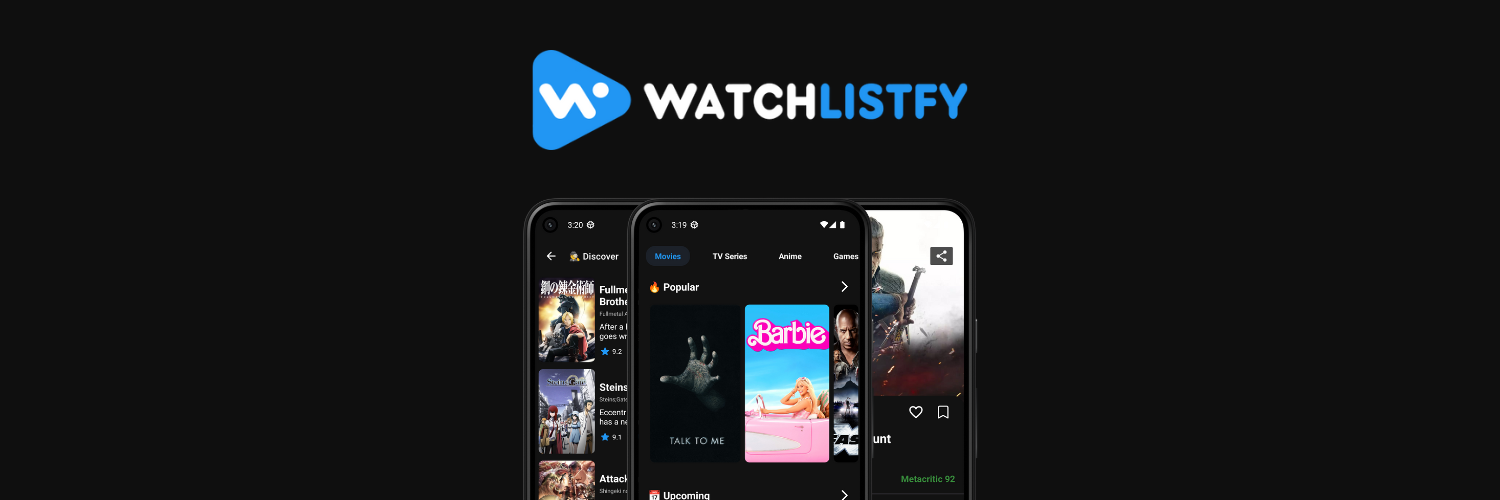
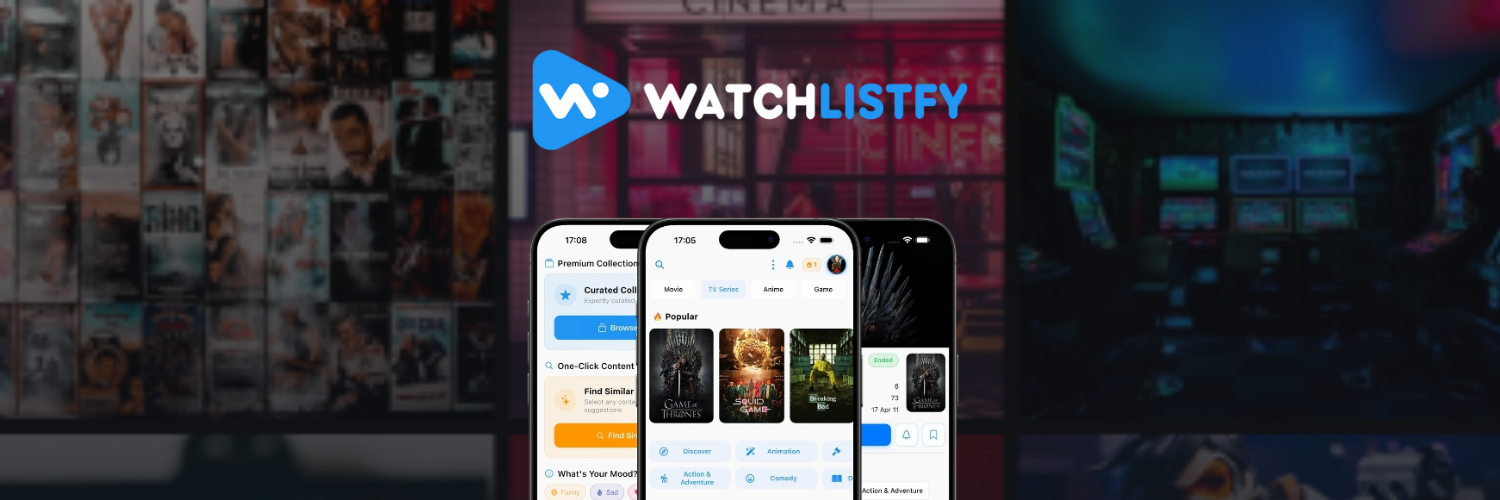
UI fixes. New images added.

diff --git a/src/components/MobileAppBanner.jsx b/src/components/MobileAppBanner.jsx
@@ -73,39 +73,44 @@ export default function MobileAppBanner() {
     }
 
     return (
-        <div className="fixed top-0 left-0 right-0 z-60 bg-gradient-to-r from-[#2196F3] to-[#1976D2] text-white shadow-lg mobile-banner-visible">
-            <div className="flex items-center justify-between px-3 py-2 max-w-full">
-                {/* Left content */}
-                <div className="flex items-center space-x-2 flex-1 min-w-0">
-                    <div className="flex-shrink-0">
-                        <span className="text-lg">📱</span>
+        <div className="fixed h-20 sm:h-24 top-0 left-0 right-0 z-[9999] bg-gradient-to-r from-[#2196F3] to-[#1976D2] text-white shadow-lg mobile-banner-visible">
+            <div className="flex items-center justify-center h-full max-w-7xl mx-auto px-4 sm:px-6">
+                <div className="flex items-center justify-between w-full">
+                    {/* Left content */}
+                    <div className="flex items-center space-x-3 flex-1 min-w-0">
+                        <div className="flex-shrink-0">
+                            <span className="text-xl sm:text-2xl">📱</span>
+                        </div>
+                        <div className="flex-1 min-w-0">
+                            <p className="text-sm sm:text-base font-medium truncate">
+                                Get the full experience
+                            </p>
+                            <p className="text-xs sm:text-sm opacity-90 truncate">
+                                Download our mobile app
+                            </p>
+                        </div>
                     </div>
-                    <div className="flex-1 min-w-0">
-                        <p className="text-xs font-medium truncate">
-                            Get the full Watchlistfy experience
-                        </p>
-                    </div>
-                </div>
 
-                {/* Right buttons */}
-                <div className="flex items-center space-x-2 flex-shrink-0">
-                    <a
-                        href={getStoreLink()}
-                        target="_blank"
-                        rel="noopener noreferrer"
-                        className="flex items-center space-x-1 bg-white bg-opacity-20 hover:bg-opacity-30 px-2 py-1 rounded text-xs font-medium transition-all duration-200"
-                    >
-                        {getStoreIcon()}
-                        <span className="hidden xs:inline">{getStoreText()}</span>
-                        <span className="xs:hidden">Get App</span>
-                    </a>
-                    <button
-                        onClick={handleDismiss}
-                        className="p-1 hover:bg-white hover:bg-opacity-20 rounded transition-colors duration-200 flex-shrink-0"
-                        aria-label="Dismiss banner"
-                    >
-                        <AiOutlineClose size={14} />
-                    </button>
+                    {/* Right buttons */}
+                    <div className="flex items-center space-x-2 sm:space-x-3 flex-shrink-0">
+                        <a
+                            href={getStoreLink()}
+                            target="_blank"
+                            rel="noopener noreferrer"
+                            className="flex items-center space-x-1 sm:space-x-2 bg-white bg-opacity-20 hover:bg-opacity-30 px-3 py-2 sm:px-4 sm:py-2.5 rounded-lg text-xs sm:text-sm font-medium transition-all duration-200 shadow-sm"
+                        >
+                            {getStoreIcon()}
+                            <span className="hidden sm:inline">{getStoreText()}</span>
+                            <span className="sm:hidden">Get App</span>
+                        </a>
+                        <button
+                            onClick={handleDismiss}
+                            className="p-1.5 sm:p-2 hover:bg-white hover:bg-opacity-20 rounded-lg transition-colors duration-200 flex-shrink-0"
+                            aria-label="Dismiss banner"
+                        >
+                            <AiOutlineClose size={16} className="sm:w-4 sm:h-4" />
+                        </button>
+                    </div>
                 </div>
             </div>
         </div>

diff --git a/src/app/page.jsx b/src/app/page.jsx
@@ -7,6 +7,7 @@ import Pricing from '../components/landing-page/pricing'
 import Features from '../components/landing-page/features'
 import Footer from '../components/landing-page/footer'
 import { FaRobot } from 'react-icons/fa6'
+import { BsGooglePlay, BsApple } from 'react-icons/bs'
 
 // Metadata moved to layout.jsx since this is now a Client Component
 
@@ -24,7 +25,7 @@ function GettingStarted() {
           </p>
         </div>
 
-        <div className="flex flex-wrap -m-4">
+        <div className="flex flex-wrap -m-4 mb-16">
           <div className="p-4 md:w-1/3">
             <div className="h-full bg-white dark:bg-gray-800 p-8 rounded-2xl shadow-lg text-center">
               <div className="w-16 h-16 inline-flex items-center justify-center rounded-full bg-[#2196F3] text-white text-2xl font-bold mb-6 mx-auto">
@@ -75,6 +76,28 @@ function GettingStarted() {
               </div>
             </div>
           </div>
+        </div>
+
+        <div className="flex justify-center items-center flex-col sm:flex-row lg:flex-row md:flex-col gap-4 text-gray-600">
+          <a href="https://play.google.com/store/apps/details?id=com.mrntlu.projectconsumer" className="transform transition-transform hover:scale-105">
+            <button className="bg-gray-100 dark:bg-gray-700 border border-gray-200 dark:border-gray-600 text-gray-800 dark:text-gray-100 inline-flex py-4 px-6 rounded-xl items-center focus:outline-none hover:bg-gray-200 dark:hover:bg-gray-600 hover:text-[#2196F3] dark:hover:text-[#2196F3] shadow-lg hover:shadow-xl transition-all duration-300 min-w-0 w-full sm:w-auto">
+              <BsGooglePlay size={28} className="flex-shrink-0" />
+              <span className="ml-3 flex items-start flex-col leading-none min-w-0">
+                <span className="text-xs mb-1 text-gray-500 dark:text-gray-400 whitespace-nowrap">GET IT ON</span>
+                <span className="title-font font-medium text-base whitespace-nowrap">Google Play</span>
+              </span>
+            </button>
+          </a>
+
+          <a href="https://apps.apple.com/us/app/watchlistfy-ai-tracker/id6476311748" className="transform transition-transform hover:scale-105">
+            <button className="bg-gray-100 dark:bg-gray-700 border border-gray-200 dark:border-gray-600 text-gray-800 dark:text-gray-100 inline-flex py-4 px-6 rounded-xl items-center focus:outline-none hover:bg-gray-200 dark:hover:bg-gray-600 hover:text-[#2196F3] dark:hover:text-[#2196F3] shadow-lg hover:shadow-xl transition-all duration-300 min-w-0 w-full sm:w-auto">
+              <BsApple size={28} className="flex-shrink-0" />
+              <span className="ml-3 flex items-start flex-col leading-none min-w-0">
+                <span className="text-xs mb-1 text-gray-500 dark:text-gray-400 whitespace-nowrap">DOWNLOAD ON</span>
+                <span className="title-font font-medium text-base whitespace-nowrap">App Store</span>
+              </span>
+            </button>
+          </a>
         </div>
       </div>
     </section>

diff --git a/src/components/landing-page/pricing.jsx b/src/components/landing-page/pricing.jsx
@@ -43,7 +43,11 @@ export default function Pricing() {
                                 </p>
                                 <p className="flex items-center text-gray-600 dark:text-gray-300 mb-3">
                                     <BsCheck2Circle className="w-5 h-5 mr-3 text-green-500 flex-shrink-0" />
-                                    Occasional Ads
+                                    Banner Ads
+                                </p>
+                                <p className="flex items-center text-gray-600 dark:text-gray-300 mb-3">
+                                    <BsCheck2Circle className="w-5 h-5 mr-3 text-green-500 flex-shrink-0" />
+                                    5 Reminders up to 3 months in advance
                                 </p>
                             </div>
 
@@ -105,6 +109,10 @@ export default function Pricing() {
                                 <p className="flex items-center text-gray-600 dark:text-gray-300 mb-3">
                                     <BsCheck2Circle className="w-5 h-5 mr-3 text-[#2196F3] flex-shrink-0" />
                                     Advanced analytics
+                                </p>
+                                <p className="flex items-center text-gray-600 dark:text-gray-300 mb-3">
+                                    <BsCheck2Circle className="w-5 h-5 mr-3 text-[#2196F3] flex-shrink-0" />
+                                    50 Reminders up to 3 years in advance
                                 </p>
                             </div>
 

diff --git a/src/components/SmartAppBanner.jsx b/src/components/SmartAppBanner.jsx
@@ -1,0 +1,33 @@
+'use client'
+
+import { useEffect } from 'react'
+
+export default function SmartAppBanner() {
+  useEffect(() => {
+    // Add iOS Smart App Banner meta tag
+    const iosMetaTag = document.createElement('meta')
+    iosMetaTag.name = 'apple-itunes-app'
+    iosMetaTag.content = 'app-id=6476311748'
+    document.head.appendChild(iosMetaTag)
+
+    // Add mobile web app capable meta tag
+    const mobileCapableTag = document.createElement('meta')
+    mobileCapableTag.name = 'mobile-web-app-capable'
+    mobileCapableTag.content = 'yes'
+    document.head.appendChild(mobileCapableTag)
+
+    return () => {
+      // Cleanup on unmount
+      const existingIosTag = document.querySelector('meta[name="apple-itunes-app"]')
+      const existingMobileTag = document.querySelector('meta[name="mobile-web-app-capable"]')
+      if (existingIosTag && existingIosTag.parentNode) {
+        existingIosTag.parentNode.removeChild(existingIosTag)
+      }
+      if (existingMobileTag && existingMobileTag.parentNode) {
+        existingMobileTag.parentNode.removeChild(existingMobileTag)
+      }
+    }
+  }, [])
+
+  return null // This component doesn't render anything visible
+}

diff --git a/src/components/landing-page/hero.jsx b/src/components/landing-page/hero.jsx
@@ -12,7 +12,7 @@ export default function Hero() {
         <section id="home" className="text-gray-600 dark:text-gray-300 body-font min-h-screen w-full">
             <div className="container mx-auto flex px-5 py-24 md:flex-row flex-col items-center min-h-screen">
                 <div className="h-full w-full flex justify-center items-center animate-fade-in-up">
-                    <Image className="object-contain mx-auto h-full max-h-[28rem] w-4/5 hover:scale-105 transition-transform duration-500 ease-in-out" alt="Watchlistfy App Screenshots" src="/static/images/combination.png" width={600} height={384} />
+                    <Image className="object-contain mx-auto h-full max-h-[38rem] w-4/5 hover:scale-105 transition-transform duration-500 ease-in-out" alt="Watchlistfy App Screenshots" src="/static/images/combination.png" width={703} height={450} />
                 </div>
                 <div className="lg:flex-grow md:w-1/2 lg:pl-12 md:pl-16 flex flex-col md:items-start md:text-left items-center text-center animate-fade-in-right">
                     <div className="mb-6">

diff --git a/src/app/layout.jsx b/src/app/layout.jsx
@@ -14,6 +14,7 @@ export const metadata = {
     template: '%s | Watchlistfy'
   },
   description: 'Track movies, TV shows, anime, and games with AI-powered recommendations. Get personalized suggestions and never miss your next favorite entertainment.',
+  // manifest: '/manifest.json',
   keywords: [
     'watchlist',
     'movie tracker',

diff --git a/CLAUDE.md b/CLAUDE.md
@@ -1,0 +1,15 @@
+- You are an expert in Javascript, Typesript, Node.js, Next.js, React, Shadcn UI, and Tailwind and Framer Motion.
+
+1. First think through the problem, read the codebase for relevant files, and write a plan to tasks/todo.md.
+2. The plan should have a list of todo items that you can check off as you complete them
+3. Before you begin working, check in with me and I will verify the plan.
+4. Then, begin working on the todo items, marking them as complete as you go.
+5. Please every step of the way just give me a high level explanation of what changes you made
+6. Make every task and code change you do as simple as possible. We want to avoid making any massive or complex changes. Every change should impact as little code as possible. Everything is about simplicity.
+7. Finally, add a review section to the [todo.md](http://todo.md/) file with a summary of the changes you made and any other relevant information.
+8. On your generated .md files, keep it brief and understandable. Be clear and to the point so it's easier to review and understand.
+
+Extra things to be careful,
+
+1. Maintain a uniform style: naming conventions, file layout, indentation, etc.
+2. Ensure performance and correctness. Review for dead code, unnecessary dependencies, and edge-case handling.
